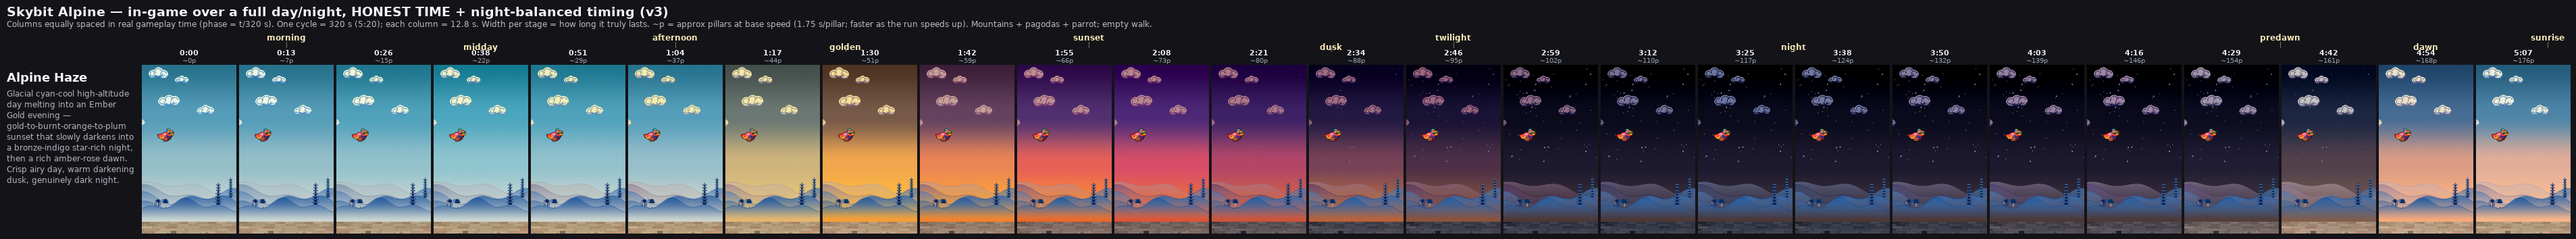
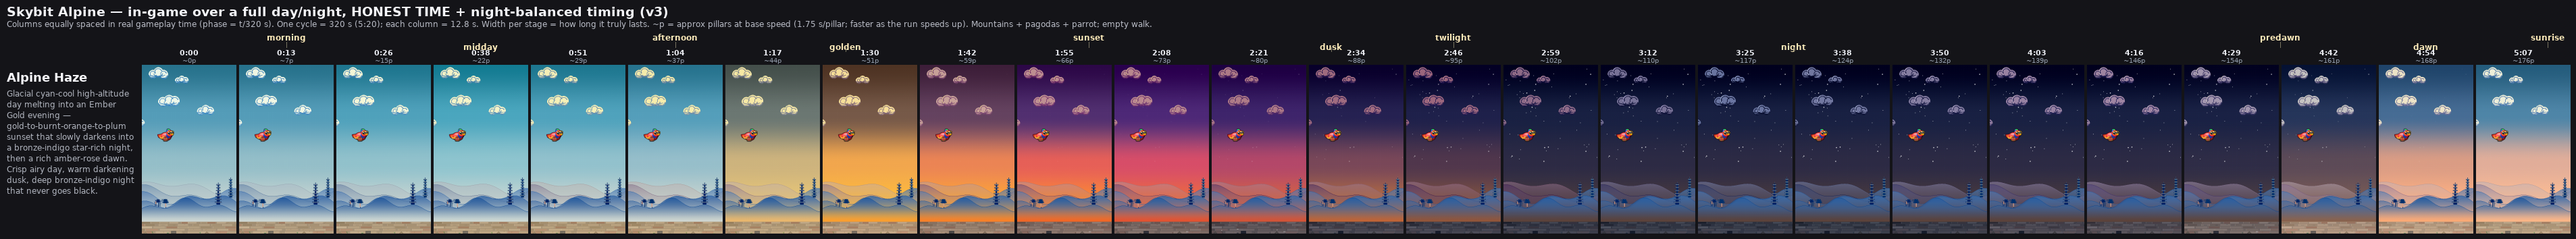
Alpine Haze: lift the live Ember Gold night off black
Port the signed-off redesigned night frames from the alpine sunset study
row 1 into the live biome — the dusk/twilight/deep-night/night-hold/predawn
keyframes carried the old (12,12,30) near-black placeholder while the
docstring already described the intended bronze-indigo night. Deep-night
zenith now renders ~36 luminance (was ~15), a smooth monotone descent with
no night-bump, both build targets green.

Changed region(s): [[0.5616, 0.2486, 0.936, 0.6525], [0.0, 0.7458, 0.0624, 0.8079]]

diff --git a/game/biome_sky_keyframes.py b/game/biome_sky_keyframes.py
@@ -231,18 +231,18 @@ _ALPINE_HAZE_KF = [
     (0.31, dict(sky_top=(104, 70, 96), sky_mid=(238, 138, 86), sky_bot=(255, 168, 54), horizon=(252, 110, 32), star_alpha=5)),
     (0.37, dict(sky_top=(82, 48, 116), sky_mid=(232, 94, 90), sky_bot=(252, 134, 50), horizon=(238, 80, 30), star_alpha=12)),
     (0.42, dict(sky_top=(78, 40, 124), sky_mid=(210, 72, 116), sky_bot=(230, 92, 70), horizon=(218, 66, 48), star_alpha=30)),
-    (0.47, dict(sky_top=(38, 28, 70), sky_mid=(126, 70, 90), sky_bot=(184, 108, 64), horizon=(210, 96, 44), star_alpha=88)),
-    (0.52, dict(sky_top=(26, 20, 54), sky_mid=(78, 48, 72), sky_bot=(124, 78, 64), horizon=(160, 88, 50), star_alpha=156)),
-    (0.56, dict(sky_top=(12, 12, 30), sky_mid=(30, 26, 48), sky_bot=(56, 46, 56), horizon=(96, 64, 48), star_alpha=236)),
-    (0.82, dict(sky_top=(12, 12, 30), sky_mid=(30, 26, 48), sky_bot=(56, 46, 56), horizon=(96, 64, 48), star_alpha=236)),
-    (0.86, dict(sky_top=(16, 16, 38), sky_mid=(36, 34, 58), sky_bot=(64, 56, 64), horizon=(102, 76, 58), star_alpha=168)),
+    (0.47, dict(sky_top=(40, 36, 84), sky_mid=(128, 76, 92), sky_bot=(184, 110, 66), horizon=(210, 98, 46), star_alpha=88)),
+    (0.52, dict(sky_top=(32, 34, 76), sky_mid=(82, 56, 78), sky_bot=(126, 82, 66), horizon=(162, 90, 52), star_alpha=156)),
+    (0.56, dict(sky_top=(26, 34, 68), sky_mid=(46, 44, 70), sky_bot=(72, 58, 64), horizon=(108, 74, 54), star_alpha=224)),
+    (0.82, dict(sky_top=(26, 34, 68), sky_mid=(46, 44, 70), sky_bot=(72, 58, 64), horizon=(108, 74, 54), star_alpha=224)),
+    (0.86, dict(sky_top=(28, 36, 72), sky_mid=(50, 48, 74), sky_bot=(78, 64, 70), horizon=(114, 82, 60), star_alpha=168)),
     (0.92, dict(sky_top=(72, 110, 150), sky_mid=(220, 158, 134), sky_bot=(255, 178, 132), horizon=(255, 168, 110), star_alpha=20)),
     (0.97, dict(sky_top=(82, 138, 172), sky_mid=(228, 178, 158), sky_bot=(255, 192, 150), horizon=(255, 182, 132), star_alpha=0)),
 ]
 
 ALPINE_HAZE = BiomeSpec(
     name='Alpine Haze',
-    note='Glacial cyan-cool high-altitude day melting into an Ember Gold evening — gold-to-burnt-orange-to-plum sunset that slowly darkens into a bronze-indigo star-rich night, then a rich amber-rose dawn. Crisp airy day, warm darkening dusk, genuinely dark night.',
+    note='Glacial cyan-cool high-altitude day melting into an Ember Gold evening — gold-to-burnt-orange-to-plum sunset that slowly darkens into a bronze-indigo star-rich night, then a rich amber-rose dawn. Crisp airy day, warm darkening dusk, deep bronze-indigo night that never goes black.',
     keyframes=_ALPINE_HAZE_KF,
     sky=SkyParams(positions=(0.0, 0.30, 0.58, 0.82, 1.0), dither_amp=1.8, zenith_dark=0.14),
 )
